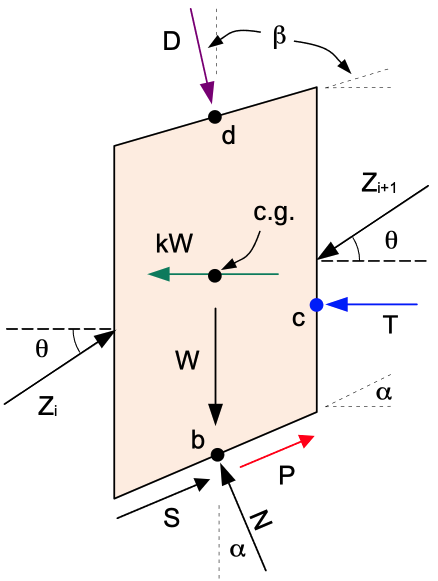
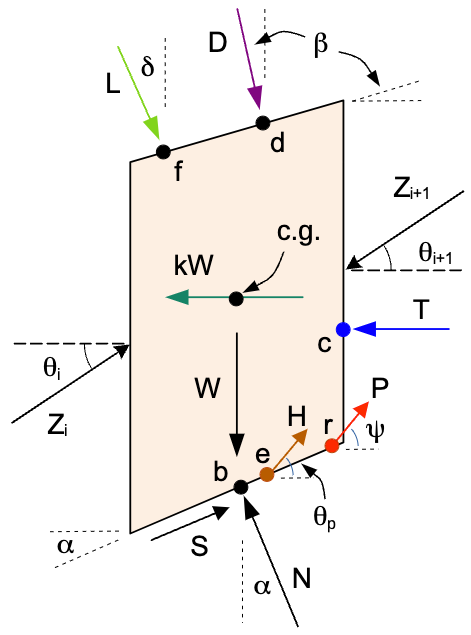
docs(lem): the advanced-loading diagram shows P at angle psi and the line load L
Claude-Session: https://claude.ai/code/session_01XjjT2aBxw8gY7EFdpoUcpj

diff --git a/docs/lem/overview.md b/docs/lem/overview.md
@@ -393,8 +393,6 @@ as follows:
 
 ![slice_adv.png](images/slice_adv.png)
 
-**⚠ TODO (figures): redraw this diagram in LibreOffice Draw — show the reinforcement force $P$ at a general angle $\psi$ (not along the base), and add a line load $L$ at angle $\delta$ on the top of the slice.**
-
 The distributed load acting on the top of each slice is converted to a resultant force by multiplying the load 
 intensity by the width of the slice and it acts at point $d$. The seismic force $kW$ acts horizontally at the center 
 of gravity of each slice. The reinforcement force $P$ acts at the point where the line crosses the base of the 
